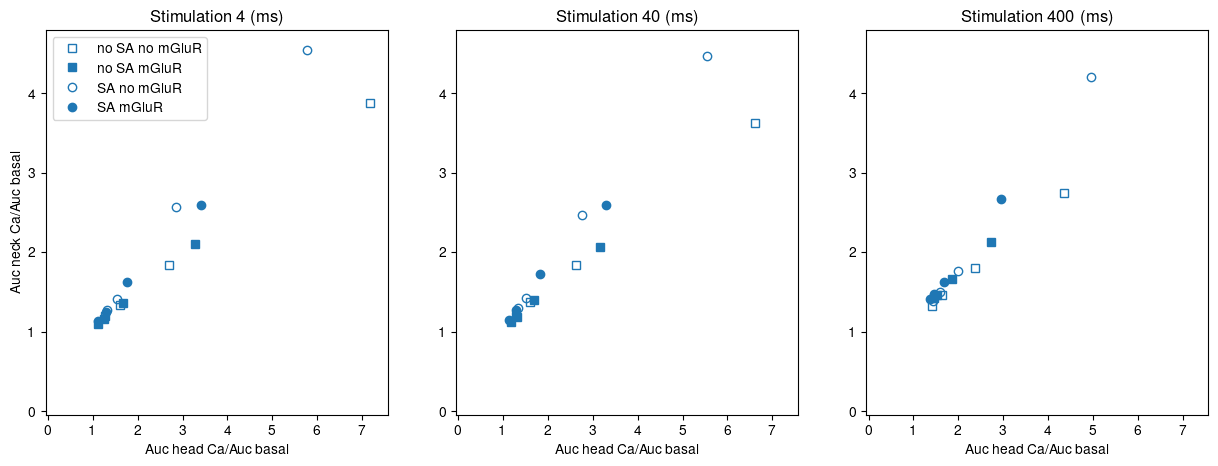
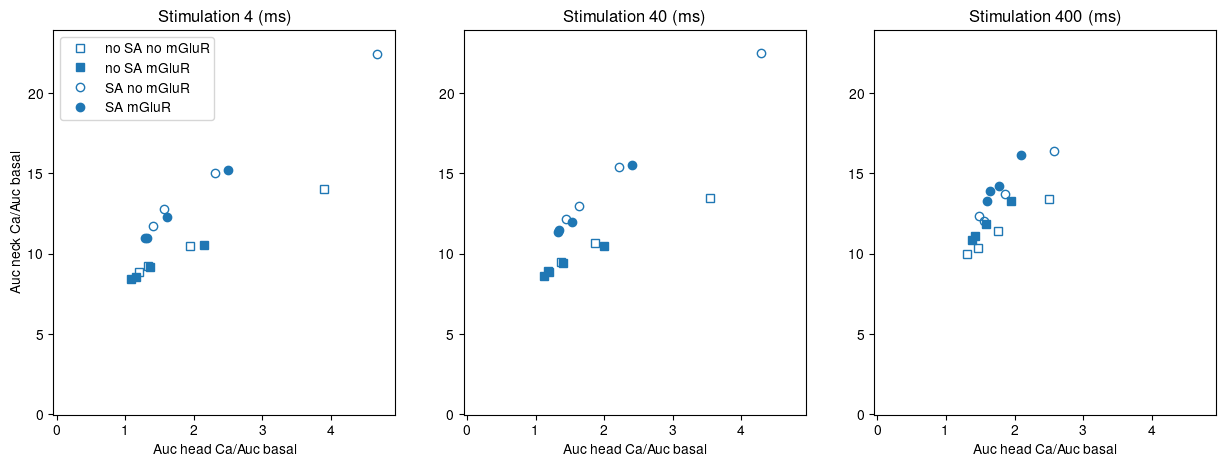
Add an equivalent of 100 Hz

diff --git a/scripts/max_amp_spine_max_amp_dend_ER_no_ER.py b/scripts/max_amp_spine_max_amp_dend_ER_no_ER.py
@@ -17,13 +17,8 @@ file_spine_ER_dend_ER = os.path.join("..", "1_spine_different_Ca_amp",
                                       "model_RyR2CaM_RyR3CaM_1.2_um_dend_spine_%s_ms_%s.h5")
 file_spine_ER_no_dend_ER = os.path.join("..", "1_spine_different_Ca_amp",
                                          "model_RyR3CaM_1.2_um_dend_spine_%s_ms_%s.h5")
-file_dend_ER_dend_Ca = os.path.join("..", "1_spine_different_Ca_amp_Ca_dend",
-                                  "model_Ca_dend_RyR2CaM_1.2_um_dend_spine_%s_ms_%s.h5")
-file_spine_ER_dend_ER_dend_Ca = os.path.join("..", "1_spine_different_Ca_amp_Ca_dend",
-                                      "model_Ca_dend_RyR2CaM_RyR3CaM_1.2_um_dend_spine_%s_ms_%s.h5")
 t_init = 3000
 output = "Ca"
-
 types = ["no ER", "ER no SA", "ER+SA", "SA"]
 markers = ["o", "s", "o", "^"]
 fillstyles = ["none", "none", "full", "none"]
@@ -36,10 +31,18 @@ spine_dend = "dend11"
 region_list = ["dend01", "dend02", "dend03", "dend04", "dend05", "dend06", "dend07","dend08", "dend08", "dend09", "dend10",
                "dend11", "dend12", "dend13", "dend14", "dend15", "dend16", "dend17",  "dend18", "dend18", "dend19", "dend20",
                "dend21"]
-spine_idx = 21
+
 if __name__ == '__main__':
-    rollo = False
-    dirs = [file_no_ER_ctrl, file_dend_ER_ctrl, file_spine_ER_dend_ER, file_spine_ER_no_dend_ER]
-    fig = utils.make_distance_figs(dirs, stim_dict, output, types, markers,
-                       fillstyles, length=42, spine_idx=21, t_init=t_init)
-    fig.savefig("Spatial_spread_ER_no_ER_%s.png" % rollo, dpi=100, bbox_inches="tight")
+    directories = [file_no_ER_ctrl, file_dend_ER_ctrl, file_spine_ER_dend_ER, file_spine_ER_no_dend_ER]
+    fig1, fig2, fig3 = utils.max_vs_auc_head_neck_dend(directories,
+                                                       stim_dict, output,
+                                                       types, markers,
+                                                       fillstyles,
+                                                       length=42,
+                                                       which_dend=["dend11"],
+                                                       t_init=3000)
+       
+
+    fig1.savefig("ER_no_ER_aucdend_auchead.png", dpi=100, bbox_inches="tight")
+    fig2.savefig("ER_no_ER_maxdend_maxhead.png", dpi=100, bbox_inches="tight")
+    fig3.savefig("ER_no_ER_aucneck_auchead.png", dpi=100, bbox_inches="tight")

diff --git a/scripts/spatial_spread_Ltype.py b/scripts/spatial_spread_Ltype.py
@@ -29,7 +29,7 @@ fillstyles = ["none", "full", "none", "full", "full"]
 stim_dict = {
     "4": ["01750", "03500", "07000", "10500"],
     "40": ["0175", "0350", "0700", "1050"],
-    "400": ["017.5", "035", "070", "105"],
+    "400": ["017.5", "035", "070", "105", "210"],
 }
 spine_dend = "dend11"
 region_list = ["dend01", "dend02", "dend03", "dend04", "dend05", "dend06", "dend07","dend08", "dend08", "dend09", "dend10",

diff --git a/scripts/max_amp_spine_max_amp_dend_Ltype.py b/scripts/max_amp_spine_max_amp_dend_Ltype.py
@@ -29,7 +29,7 @@ fillstyles = ["none", "full", "none", "full"]
 stim_dict = {
     "4": ["01750", "03500", "07000", "10500"],
     "40": ["0175", "0350", "0700", "1050"],
-    "400": ["017.5", "035", "070", "105"],
+    "400": ["017.5", "035", "070", "105", "210"],
 }
 spine_dend = "dend11"
 region_list = ["dend01", "dend02", "dend03", "dend04", "dend05", "dend06", "dend07","dend08", "dend08", "dend09", "dend10",

diff --git a/scripts/max_amp_spine_max_amp_dend_Ltype_IP3.py b/scripts/max_amp_spine_max_amp_dend_Ltype_IP3.py
@@ -45,7 +45,7 @@ fillstyles = ["none", "full", "none", "full"]
 stim_dict = {
     "4": ["01750", "03500", "07000", "10500"],
     "40": ["0175", "0350", "0700", "1050"],
-    "400": ["017.5", "035", "070", "105"],
+    "400": ["017.5", "035", "070", "105", "210"],
 }
 spine_dend = "dend11"
 region_list = ["dend01", "dend02", "dend03", "dend04", "dend05", "dend06", "dend07","dend08", "dend08", "dend09", "dend10",

diff --git a/scripts/max_amp_spine_max_amp_dend_Ltype_old_age.py b/scripts/max_amp_spine_max_amp_dend_Ltype_old_age.py
@@ -36,7 +36,7 @@ fillstyles = ["full", "none", "full", "none"]
 stim_dict = {
     "4": ["01750", "03500", "07000", "10500"],
     "40": ["0175", "0350", "0700", "1050"],
-    "400": ["017.5", "035", "070", "105"],
+    "400": ["017.5", "035", "070", "105", "210"],
 }
 spine_dend = "dend11"
 region_list = ["dend01", "dend02", "dend03", "dend04", "dend05", "dend06", "dend07","dend08", "dend08", "dend09", "dend10",

diff --git a/scripts/max_amp_spine_max_amp_dend_old_age.py b/scripts/max_amp_spine_max_amp_dend_old_age.py
@@ -30,7 +30,7 @@ fillstyles = ["full", "none", "full", "none"]
 stim_dict = {
     "4": ["01750", "03500", "07000", "10500"],
     "40": ["0175", "0350", "0700", "1050"],
-    "400": ["017.5", "035", "070", "105"],
+    "400": ["017.5", "035", "070", "105", "210"],
 }
 spine_dend = "dend11"
 region_list = ["dend01", "dend02", "dend03", "dend04", "dend05", "dend06", "dend07","dend08", "dend08", "dend09", "dend10",

diff --git a/scripts/spatial_spread_ER_no_ER_old_age.py b/scripts/spatial_spread_ER_no_ER_old_age.py
@@ -33,7 +33,7 @@ fillstyles = ["full", "none", "full", "none"]
 stim_dict = {
     "4": ["01750", "03500", "07000", "10500"],
     "40": ["0175", "0350", "0700", "1050"],
-    "400": ["017.5", "035", "070", "105"],
+    "400": ["017.5", "035", "070", "105", "210"],
 }
 spine_dend = "dend11"
 region_list = ["dend01", "dend02", "dend03", "dend04", "dend05", "dend06", "dend07","dend08", "dend08", "dend09", "dend10",

diff --git a/scripts/spatial_spread_Ltype_IP3.py b/scripts/spatial_spread_Ltype_IP3.py
@@ -45,7 +45,7 @@ fillstyles = ["none", "full", "none", "full"]
 stim_dict = {
     "4": ["01750", "03500", "07000", "10500"],
     "40": ["0175", "0350", "0700", "1050"],
-    "400": ["017.5", "035", "070", "105"],
+    "400": ["017.5", "035", "070", "105", "210"],
 }
 spine_dend = "dend11"
 region_list = ["dend01", "dend02", "dend03", "dend04", "dend05", "dend06", "dend07","dend08", "dend08", "dend09", "dend10",

diff --git a/scripts/spatial_spread_Ltype_old_age.py b/scripts/spatial_spread_Ltype_old_age.py
@@ -36,7 +36,7 @@ fillstyles = ["full", "none", "full", "none"]
 stim_dict = {
     "4": ["01750", "03500", "07000", "10500"],
     "40": ["0175", "0350", "0700", "1050"],
-    "400": ["017.5", "035", "070", "105"],
+    "400": ["017.5", "035", "070", "105", "210"],
 }
 spine_dend = "dend11"
 region_list = ["dend01", "dend02", "dend03", "dend04", "dend05", "dend06", "dend07","dend08", "dend08", "dend09", "dend10",
